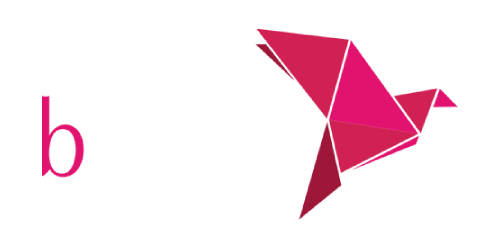
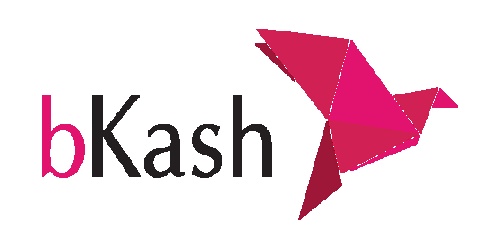
Use the full bKash wordmark on the checkout.

diff --git a/apps/web/src/app/pay/[publicId]/page.tsx b/apps/web/src/app/pay/[publicId]/page.tsx
@@ -73,7 +73,7 @@ function CopyButton({ done, onClick }: { done: boolean; onClick: () => void }) {
 }
 
 const BRAND_LOGOS: { key: string; src: string; alt: string }[] = [
-  { key: "bkash", src: "/gateways/bkash.png?v=3", alt: "bKash" },
+  { key: "bkash", src: "/gateways/bkash.png?v=4", alt: "bKash" },
   { key: "nagad", src: "/gateways/nagad.png?v=3", alt: "Nagad" },
   { key: "rocket", src: "/gateways/rocket.png?v=3", alt: "Rocket" },
   { key: "upay", src: "/gateways/upay.png?v=3", alt: "Upay" },
